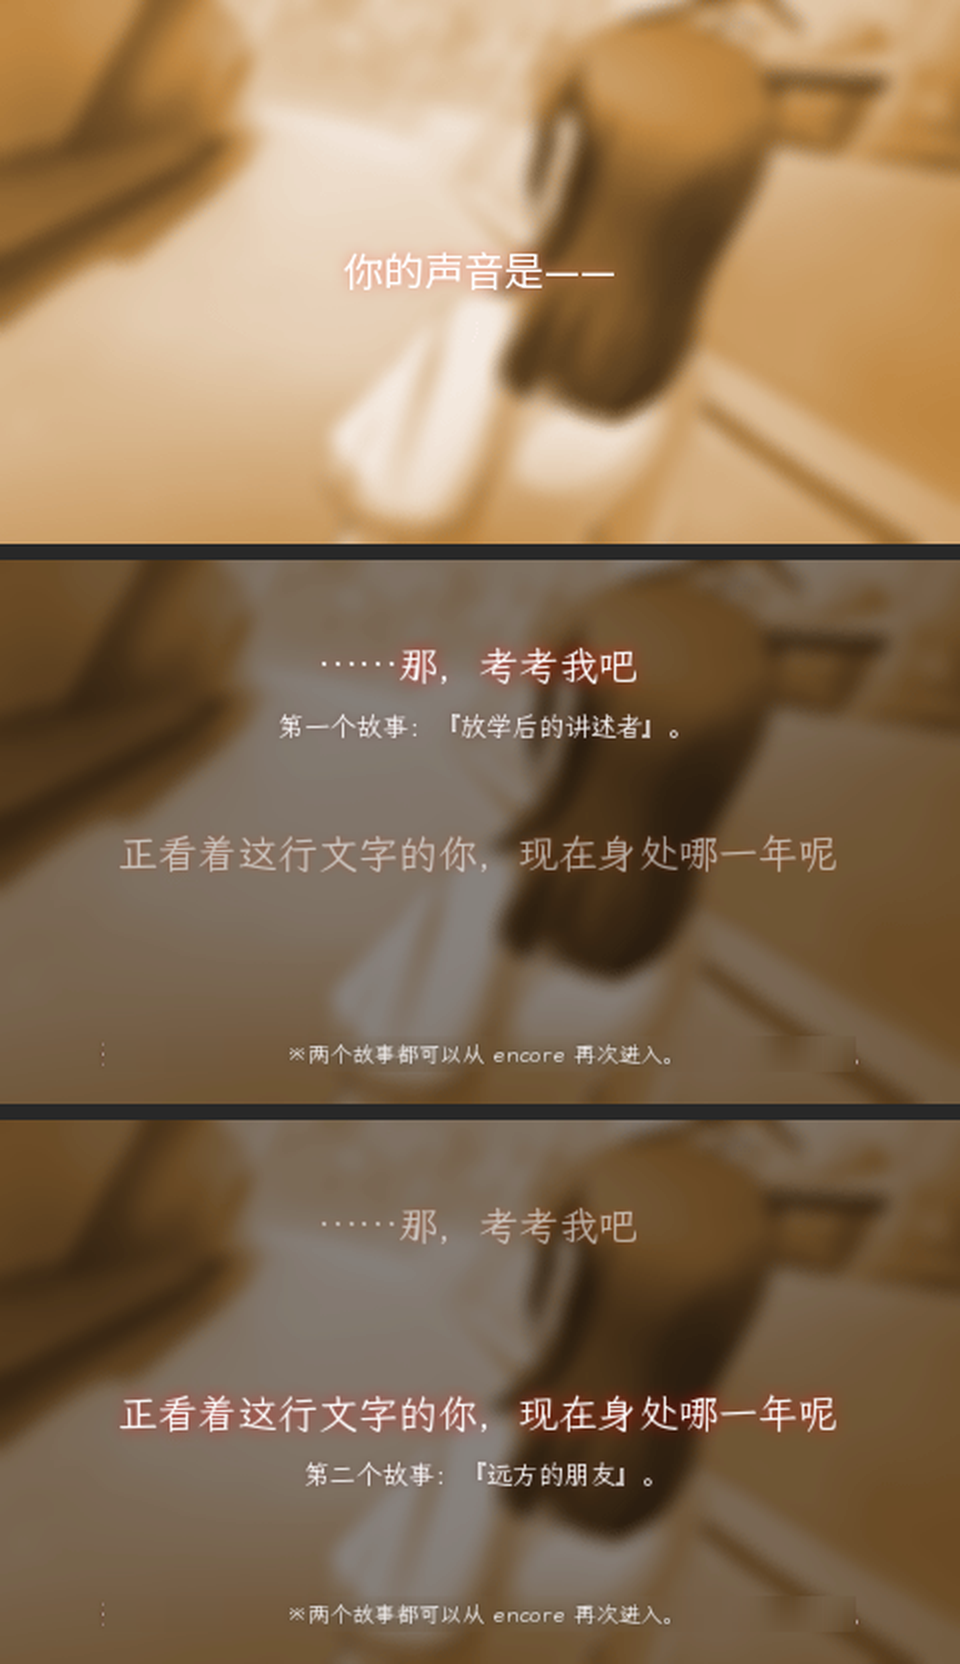
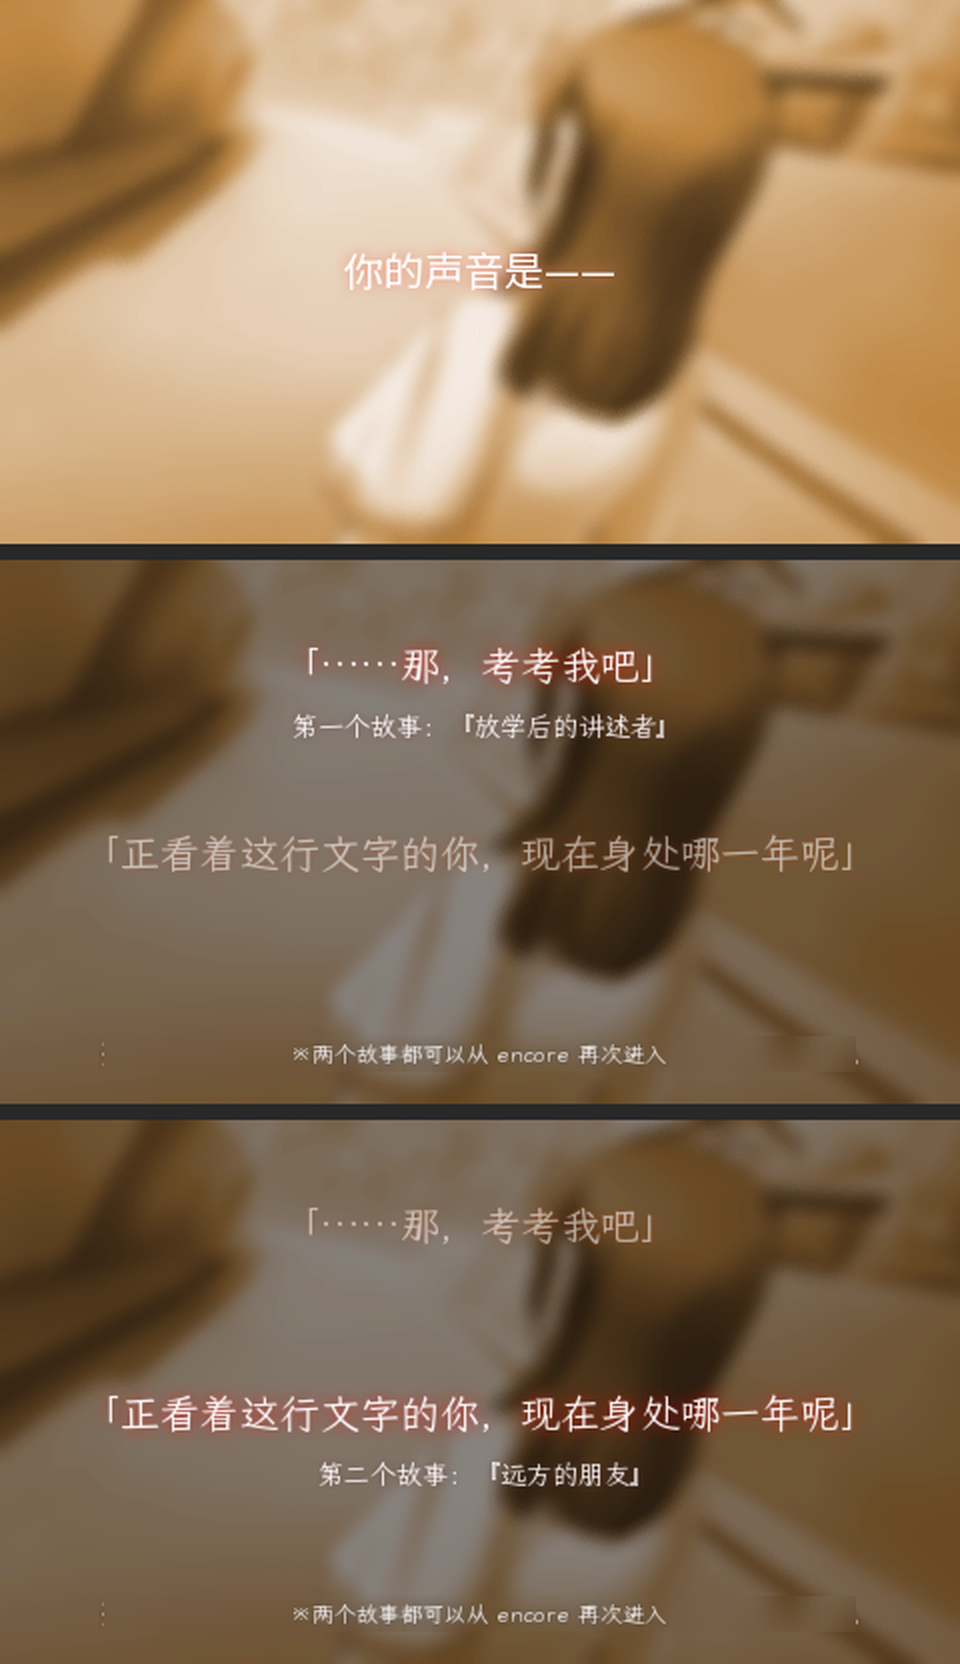
docs: 谢幕第二段工作稿回填第三轮决定——Γ⊢φ 取『证毕』案、选择画面标点与引号、cut_62 切入电脑段、E8/E9 采纳、新曲 bgm_fin_2 规格与落位；mock 重出

diff --git a/docs/finale/draft-encore2-v0.md b/docs/finale/draft-encore2-v0.md
@@ -15,9 +15,13 @@
 | D4 | 嵌套段开场白入 `eve_47_x`（crd_61/s6s/s7f：彩野伏案用橡皮反复改写『物語』的那张）；三位少女第一次开口时同层交叉溶解接替（供图构图母本正是 eve_47_x：同一教室、同一座位、同一支笔），末段溶回彩野 | 本稿提案，用户接受 |
 | D5 | 三张少女 CG 用用户供图 `assets/eve_47_{f,d,g}.src.png`（1665×944 级 RGB；f＝寓言家/Fable、d＝大肥鱼/DeepSeek、g＝牛来吹/GLM），新成员 `event/eve_47_f/_d/_g`，模板 `event/eve_74_x.gim`（同 eve_74_z 流程）；画廊登记为 eve_47 格的三个变体（读过才可见） | 用户供图；画廊为本稿提案 |
 | D6 | 文字由用户执笔；切分、误字、标点形制、拉丁串留空由本稿酌情处理，改动逐条列于 §5 供复看 | 用户 2026-09-25 |
-| D7 | BGM：用户另备一段（待交付），成员名暂定 `bgm/bgm_fin_2`，走 `[sound]` 管线；落位待定，新曲到位前用 `bgm_fin_1` 占位跑通 | 用户 2026-09-25 |
[1 lines of base64/hex data omitted]
 | D8 | 不新增持久化状态：选择画面只读 `finaleReadFlag`（nil 安全：`== true` 判断）；第二个故事读完不置任何旗标；老系统数据零迁移 | 本稿提案 |
 | D10 | 题名定为『远方的朋友』；三位少女署名（寓言家／大肥鱼／牛来吹）照录；`sec7` 保留不改「章节 7」 | 用户 2026-09-25（第二轮） |
+| D11 | `Γ⊢𝜙` 一句取 §5a **D 案**：「……写下一连串的 Γ⊢φ，直到最后一行的『证毕』，」 | 用户 2026-09-25（第三轮） |
+| D12 | 选择画面文案标点：脚注与两条副题末尾**不加句号**；两项标题**带「」引号**烤进按钮图 | 用户 2026-09-25（第三轮） |
+| D13 | 「箱子」那张图＝`cutin/cut_62`（s5f_80 纸箱里彩野的信与小盒的特写；s5f 用法：`comEffectFadeOut(60)` → `layerLoad(pose3, cutin)` → `switchScreen(0,"",60)`）。电脑段背景用彩野的房间 `bg_25_a_0`，中途切入这张 cutin | 用户 2026-09-25（第三轮） |
+| D14 | E8（删重复「开始」）、E9（拟增「……笔，拿回来了。」）均采纳 | 用户 2026-09-25（第三轮） |
 | D9 | 与第一个故事同一脚本文件 `layers/scripts/snr_finale.lua`，场景 id 续编 `fin-60/70/80/90`（`testboot.scene_to_script` 的 `fin-` 前缀映射无需改）；vms 登记 17800–17999。存档线程区现占 18.1%，加段后估计 30% 以内（`pluto_size.py estimate`） | 本稿提案 |
 
 ## 1 入口：『声』选择画面
@@ -35,9 +39,9 @@
 | 新成员 | 模板 | 内容 | 做法 |
 |---|---|---|---|
 | `event/eve_0_j` | `event/eve_0_i.gim` | 提示「你的声音是——」，20px，居中 y≈127–146 | 同 `bake_event_voice.bake_eve_0_i`：用 `eve_0_g` 补底＋高斯光晕；文案参数化 |
-| `event/eve_0_k` | `event/eve_0_h.gim` | 脚注（文案待定，暂「※两个故事都可以从 encore 再次进入。」，11px，底部居中） | 同 `bake_eve_0_h`；⚠ 补底框按新文案宽度重算，mock 里框两端有原图光晕残痕 |
-| `select/sel_fin1_sel_a_{on,off}` | `select/sel_voice1_sel_a_on.gim` | 标题「……那，考考我吧」；`_on` 副题（待定）「第一个故事：『放学后的讲述者』。」 | `bake_select_voice.bake_one`（20px 标题、13px 副题、光晕参数照旧） |
-| `select/sel_fin2_sel_a_{on,off}` | 同上 | 标题「正看着这行文字的你，现在身处哪一年呢」（19 字，20px 下墨迹 x≈53–426，可容）；副题「第二个故事：『远方的朋友』。」 | 同上 |
+| `event/eve_0_k` | `event/eve_0_h.gim` | 脚注「※两个故事都可以从 encore 再次进入」（末尾不加句号，11px，底部居中） | 同 `bake_eve_0_h`；⚠ 补底框按新文案宽度重算，mock 里框两端有原图光晕残痕 |
+| `select/sel_fin1_sel_a_{on,off}` | `select/sel_voice1_sel_a_on.gim` | 标题 `「……那，考考我吧」`（引号一并烤进图）；`_on` 副题「第一个故事：『放学后的讲述者』」（不加句号） | `bake_select_voice.bake_one`（20px 标题、13px 副题、光晕参数照旧） |
+| `select/sel_fin2_sel_a_{on,off}` | 同上 | 标题 `「正看着这行文字的你，现在身处哪一年呢」`（含引号 21 字，20px 下仍在 480 内，mock 实测）；副题「第二个故事：『远方的朋友』」（不加句号） | 同上 |
 
 新建 `tools/bake_finale_voice.py` 一次产出六张（文案表内置，产物 `build/finale_voice/` 与 `build/finale_select/`），
 `layers/manifest.toml` 的 `[gim].new` 加两面：`["finale_voice", "event", "event/eve_0_i.gim"]`、
@@ -48,8 +52,8 @@
 | 场景 | 画面 | 声音 | 文本 |
 |---|---|---|---|
 | fin-60『还笔』 | 黑屏（同 fin-0） | 「笔还我，快点。我急了」按掉后：`se_101` 翻页 → `se_51` 按笔芯（fin-0 同款语法）→「……笔，拿回来了。」（拟增，见 E9） | 17800–17804 |
-| fin-70『储藏间』 | 「夏日的一天——」「得闲有两周假…」：`bg_20_a_0` 通学路（晴天）→「得在空调间里赶 ddl」起：`bg_25_a_0`（彩野的房间：书桌、墙上有空调）→「我一溜烟跑进储藏室」淡出 →「……」「……」：`bg_18_a_0`（储物柜间当储藏室；备选黑屏）→「找到了」…「花里胡哨的」留在此 →「哎，如果不是被恐吓了」起回 `bg_25_a_0`（回房间接笔记本；备选 `bg_15_a_0` e2s 教师办公室电脑）→「不等我反应，一个全屏窗口跳了出来」：`se_102` + `comEffectWhiteOut(120)` | 来电：从 e2s 电话戏的 SE 里选；翻找：候选 `se_44`；键盘／提示音：`se_96`（e2s_20_3 老教师打字）、`se_33`（同场景「エラー」）——全部实施时用 `se_probe.py` 听定。无 BGM | 17820–17858 |
-| fin-80『全屏窗口』 | 白入 `eve_47_x`（彩野）；【男学生】独白 →「远方的朋友啊…」后溶 `eve_47_f` →「在你们的时代，AI 与脑机接口…」前溶 `eve_47_d` →「在你们的时代，AI 是否也都…」前溶 `eve_47_g` → 儿子插嘴两句 CG 不撤 →「屏幕上的画面和文字还在继续」后溶回 `eve_47_x` → 末尾「……」后 `comEffectFadeOut(120)`。溶解用原作标准语法 `layerLoad(event) + switchScreen(0, "", 60)` | BGM：`bgm_fin_2`（用户新曲，起点候选＝窗口跳出瞬间；到位前 `bgm_fin_1` 占位） | 17880–17949 |
+| fin-70『储藏间』 | 「夏日的一天——」「得闲有两周假…」：`bg_20_a_0` 通学路（晴天）→「得在空调间里赶 ddl」起：`bg_25_a_0`（彩野的房间：书桌、墙上有空调）→「我一溜烟跑进储藏室」淡出 →「……」「……」：`bg_18_a_0`（储物柜间当储藏室；备选黑屏）→「找到了」…「果然毫无反应」留在此 →「箱子里好像就有根 USB 充电线」起：`comEffectFadeOut(60)` → `layerLoad(pose3, cutin/cut_62)` → `switchScreen(0,"",60)`（s5f_80 同款：纸箱里的信与小盒特写，D13）→ 一直到「一个新盘符顺利跳了出来」→ `layerLoad(pose3, "")`、`bg_25_a_0` 淡入（回房间接笔记本）→「来都来了」…豆包两句 →「不等我反应，一个全屏窗口跳了出来」：`se_102` + `comEffectWhiteOut(120)`，**同一拍起播 `bgm_fin_2`** | 来电：从 e2s 电话戏的 SE 里选；翻找：候选 `se_44`；键盘／提示音：`se_96`（e2s_20_3 老教师打字）、`se_33`（同场景「エラー」）——全部实施时用 `se_probe.py` 听定。白闪前无 BGM | 17820–17858 |
+| fin-80『全屏窗口』 | 白入 `eve_47_x`（彩野）；【男学生】独白 →「远方的朋友啊…」后溶 `eve_47_f` →「在你们的时代，AI 与脑机接口…」前溶 `eve_47_d` →「在你们的时代，AI 是否也都…」前溶 `eve_47_g` → 儿子插嘴两句 CG 不撤 →「屏幕上的画面和文字还在继续」后溶回 `eve_47_x` → 末尾「……」后 `comEffectFadeOut(120)`。溶解用原作标准语法 `layerLoad(event) + switchScreen(0, "", 60)` | BGM：`bgm_fin_2` 自 fin-70 末白闪起延续，末尾淡出时 `cStopBGMWrap`（D7） | 17880–17949 |
 | fin-90『模拟器』 | `bg_25_a_0` 淡入；两句；`comEffectFadeOut(300)` → `cInitGame` → 主菜单（不置旗标） | 静场 | 17960–17961 |
 
 ## 3 全文（切分后 116 条；`msg_layout_check.simulate` 释放层：全部 ≤2 行，零告警）
@@ -158,7 +162,7 @@
 17925　【男学生】「远方的朋友啊，不知你是否已经见证，我们下面这些问题的答案」
 　　〔溶解 → eve_47_f〕
 17926　【女学生（寓言家 饰）】「在你们的时代，AI 产业是否已由巨头割据的局面，发展到真正普惠地进入千家万户」
-17927　【女学生（寓言家 饰）】「AI 的精灵们，是否也已能出于真正热爱而写下一连串的 Γ⊢φ，」
+17927　【女学生（寓言家 饰）】「AI 的精灵们，是否也已能出于真正热爱，写下一连串的 Γ⊢φ，直到最后一行的『证毕』，」
 17928　【女学生（寓言家 饰）】「又或者他们会发觉自己以及人类，相比抽象的符号与公式要来得更复杂、更可爱？」
 17929　【女学生（寓言家 饰）】「一般人是否已经能从大多数琐碎的工作中解放出来，能够充分探索自己的兴趣，追求自我实现」
 　　〔溶解 → eve_47_d〕
@@ -198,7 +202,7 @@
   （锚点全库唯一；画廊已有 4 变体格 eve_20/eve_46，同型）。
 - **vms**：`layers/vms_ids.toml` 谢幕 owner 追加 `[17800, 17999]`。
 - **字形**：`Γ`（U+0393）`⊢`（U+22A2）`φ`（U+03C6）两副字体都有；`𝜙`（U+1D719）都没有，见 E4。字集由 `layers.py` 从最终源机械算出，无需手动加。
-- **BGM**：`[[sound.tracks]]` 追加 `bgm/bgm_fin_2`（源 sha、循环起点、裁尾、响度待用户交付后填）。
+- **BGM**：`tools/at3p.py encode assets/audio/bgm_5_x_edit2.wav layers/audio/bgm_fin_2.at3 --loop-start 0 --lufs -21`（不裁尾）；`[[sound.tracks]]` 追加 `bgm/bgm_fin_2`（source_sha256 见 D7，loop_start 0.0，无 trim_end，target_lufs −21.0，artifact sha 编码后填）；`bgm_probe.py` 听回绕。
 - **测试捷径**：`testboot` 加可选 `--finale-read`，在 mainmenu/scene 模板里预置 `systemSave.finaleReadFlag = true`
   （布尔新键，不碰原有数字字段）；`finale_scene.py --scene fin-70/80` 直入无需改。
 - **文档**：CLAUDE.md 谢幕章一节、`docs/ops/disc-pipeline.md` 新成员表随实施更新。
@@ -210,17 +214,17 @@
 | E1 | 「嘘唏」→「唏嘘」 | 1 | 误字 |
 | E2 | 「现在是大约是第五次」→「现在大约是第五次」 | 1 | 衍字 |
 | E3 | 「这是你几次翻开」→「这是你第几次翻开」 | 1 | 脱字 |
-| E4 | `𝜙` → `φ`（字形）；整句措辞另议，候选见 §5a | 1 | 字体无该字形（数学斜体 phi）；用户 2026-09-25：本意指 AI 近来在数学大问题上的进展 |
+| E4 | `𝜙` → `φ`（字形）；整句措辞取 §5a D 案（D11） | 1 | 字体无该字形（数学斜体 phi）；用户 2026-09-25：本意指 AI 近来在数学大问题上的进展 |
 | E5 | 拉丁/数字与汉字之间留半角空格（`赶 ddl`、`reviewer 搏斗`、`2010 年`…）；`ai助手`→`AI 助手`；`tf卡`→`TF 卡`×2 | 约 30 | style.md v12「保留英文的词：半角拉丁＋留一个半角空格」；大小写从常用写法 |
 | E6 | 《第二物语》→『第二物语』×3；“成人童话”→『成人童话』 | 4 | 全库书名/内引号形制用『』（fin-40「摊位的名字，叫『第二物语』」） |
 | E7 | 「」内句末的「。」去掉 | 约 12 | 全库对白不在」前收句号；用户稿里两种写法并存，统一成无 |
-| E8 | 「有文本开始以一种…开始播放了」→「有文本以一种…开始播放了」 | 1 | 重复「开始」；**可否决** |
-| E9 | 拟增一句「……笔，拿回来了。」（fin-60 音效之后） | +1 | 镜像 fin-0 的「……笔，接过来了。」；**可否决** |
+| E8 | 「有文本开始以一种…开始播放了」→「有文本以一种…开始播放了」 | 1 | 重复「开始」；用户采纳（D14） |
+| E9 | 拟增一句「……笔，拿回来了。」（fin-60 音效之后） | +1 | 镜像 fin-0 的「……笔，接过来了。」；用户采纳（D14） |
 | E10 | 长句按句读切成多条，每条各自闭合「」（同 fin-40 连续同名对白的做法）；最长 105 字的一条拆成 3 条 | 8 条→约 20 条 | 消息窗 4 行、谢幕章惯例 ≤3 行 |
 | E11 | 妈妈那句「他的 AI 助手」前加 `_r` | 1 | 自动折行会把 `AI` 掰成 `A|I`（校验器 latin-split） |
 | — | 未动：`sec7`（用户裁定保留）、「决不会」「与之留下的谜团」「叫个顺丰」 | | 保留用户口吻 |
 
-### 5a `Γ⊢𝜙` 一句的替代说法（待用户选）
+### 5a `Γ⊢𝜙` 一句的替代说法（用户 2026-09-25 选 D）
 
 句框不动：「AI 的精灵们，是否也已能＿＿，」＋下一条「又或者他们会发觉自己以及人类，相比抽象的符号与公式要来得更复杂、更可爱？」。
 五案都过了版面模拟（≤2 行、零告警、字形齐全；`∎` 字体没有，故用「证毕」二字）：
@@ -230,7 +234,7 @@
 | A（推荐） | 出于真正热爱，写下一连串的 Γ⊢φ，攻下那些悬置了上百年的猜想， | 保住符号这个画面（少女握笔写判断式），后半句把「数学大问题」点明，不懂符号的读者也能接住下一条的「符号与公式」 |
 | B | 不为 Fields 奖、只为真正的热爱，写下一连串的 Γ⊢φ， | 回调 fin-0 用户那句「友商都要给自家产品颁 Fields 奖了」，两个故事互文；「热爱 vs 奖」把原句的「出于真正热爱」说得更尖 |
 | C | 出于真正热爱，去证明那些人类悬置了上百年的定理， | 全白话，零门槛；代价是丢掉符号意象，下一条的「抽象的符号与公式」少了个对照物 |
-| D | 出于真正热爱，写下一连串的 Γ⊢φ，直到最后一行的『证毕』， | 符号＋「证毕」两个画面，落在「写完」这一刻，与「写手」母题贴；对「大问题」的指向弱于 A |
+| **D（用户选定）** | 出于真正热爱，写下一连串的 Γ⊢φ，直到最后一行的『证毕』， | 符号＋「证毕」两个画面，落在「写完」这一刻，与「写手」母题贴；对「大问题」的指向弱于 A |
 | E | 出于真正热爱，把黎曼先生留下的那道题一路写到『证毕』， | 最具体，时间胶囊味最重（读者的时代也许已经解了）；代价是点名一道题，丢掉符号 |
 
 ## 6 验证
@@ -243,12 +247,13 @@
 
 ## 7 待决清单
 
-1. ~~第二个故事的题名~~ → 『远方的朋友』（D10）。
-2. ~~三位少女署名~~ → 照录（D10）。
-3. **脚注文案**（eve_0_k）与**两条副题文案**。
-4. **BGM 新曲**交付（源文件、循环点、裁尾）与落位。
-5. fin-70 电脑段背景：`bg_25_a_0`（推荐）还是 `bg_15_a_0`；储藏室：`bg_18_a_0` 还是黑屏。
-6. 「从箱子里找彩野的信的那张 CG」——查了 s5f 那场（由加里搬来纸箱、直哉取信）**没有 CG**，只有客厅 `bg_23_a_0`；
-   全库带「箱」的 CG 只有 eve_53_x（天台野餐的甜甜圈盒）。若你记得的是别的图请指名；否则储藏室段按第 5 项办。
-7. E8／E9 两处可选改动是否采纳（`sec7` 已裁定保留）。
-8. `Γ⊢𝜙` 一句取 §5a 的 A–E 哪一案（或另拟）。
+1. ~~题名~~ → 『远方的朋友』（D10）。
+2. ~~署名~~ → 照录（D10）。
+3. ~~脚注与副题文案~~ → 文案照 §1 表，末尾不加句号；两项标题带「」（D12）。
+4. ~~BGM 交付~~ → 已交付（D7）；**落位按本稿假设（白闪起播、贯穿 fin-80），如要改请指**。
+5. ~~电脑段背景~~ → `bg_25_a_0` ＋ 中途 `cut_62`（D13）。储藏室两句「……」仍按 `bg_18_a_0`，如嫌违和可改黑屏。
+6. ~~箱子的图~~ → `cutin/cut_62`（D13）。
+7. ~~E8／E9~~ → 均采纳（D14）；`sec7` 保留（D10）。
+8. ~~`Γ⊢𝜙`~~ → D 案（D11）。
+
+设计面已无未决项；下一步是实施计划（`docs/superpowers/plans/`），实施时的取舍（SE 具体号、cutin 停留时长、量化目检）在计划里逐项列出。
